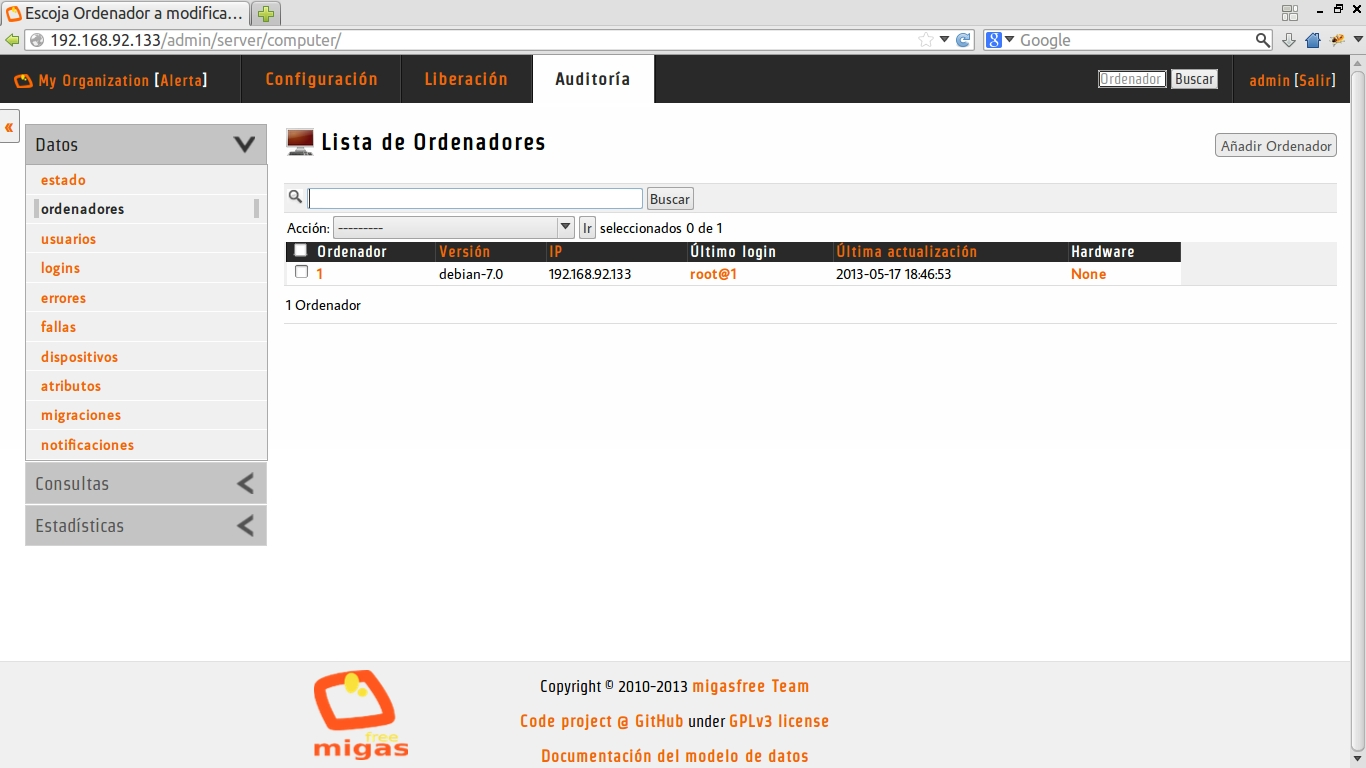
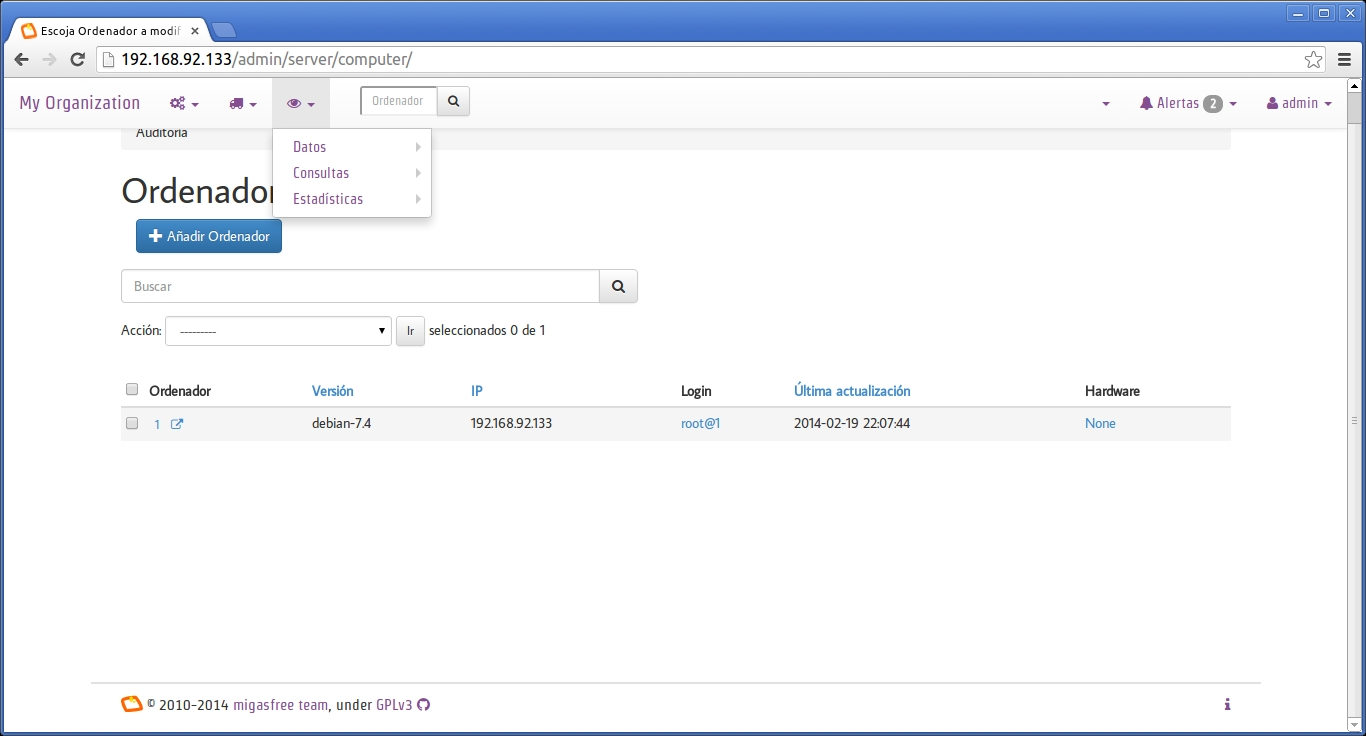
Actualizacion del capitulo 5 a grape edition

diff --git a/chapter05.rst b/chapter05.rst
@@ -150,24 +150,25 @@ ido bien verás la figura 5.1.
 
 
 Haz login con el usuario "admin" y password "admin" y verás algo
-parecido a la figura 5.2.
+parecido a la figura 5.2. Observa como arriba a la derecha pone ``alertas 0``.
+Esto nos indica que todo esta bien.
 
 .. only:: not latex
 
    .. figure:: graphics/chapter05/status.png
       :scale: 40
-      :alt: Estado del servidor.
+      :alt: Estado del servidor con 0 alertas.
 
-      figura 5.2. Estado del servidor.
+      figura 5.2. Estado del servidor con 0 alertas.
 
 
 .. only:: latex
 
    .. figure:: graphics/chapter05/status.png
       :scale: 80
-      :alt: Estado del servidor.
+      :alt: Estado del servidor con 0 alertas.
 
-      Estado del servidor.
+      Estado del servidor con 0 alertas.
 
 
 Instalando el cliente
@@ -213,7 +214,7 @@ te devolverá una salida parecida a esta:
     Versión de migasfree client: 3.1
 
     Opciones de ejecución:
-        Versión: debian-7.0
+        Versión: debian-7.4
         Servidor: 192.168.92.133
         Proxy: None
         Certificado SSL: None
@@ -235,7 +236,7 @@ te devolverá una salida parecida a esta:
     ***************************** Correcto
 
     ************************** Evaluando atributos... **************************
-    VER: debian-7.0
+    VER: debian-7.4
 
     ALL: ALL SYSTEMS
 
@@ -303,13 +304,13 @@ Comprobando el estado del servidor
 Comprueba los datos que se han recogido accediendo al servidor con tu
 navegador web.
 
-* En ``Estado`` tendrás 2 ``Notificaciones`` (figura 5.3):
+* Fíjate ahora que en las ``Alertas`` tendrás 2 ``Notificaciones`` (figura 5.3):
 
     * La primera te notifica que el ordenador ``1`` ha dado de alta la
       plataforma ``Linux``
 
     * La segunda notificación te dice que el ordenador ``1`` ha añadido
-      la version ``debian-7.0``
+      la version ``debian-7.x``
 
     .. only:: not latex
 
@@ -329,9 +330,8 @@ navegador web.
 
 
 
-
-
-* Accede a ``Auditoría - Datos - Ordenadores`` (figura 5.4) y mira:
+* Accede a ``Auditoría - Datos - Ordenadores`` pulsando en el símbolo del ojo y
+  observa: (figura 5.4)
 
     * Los datos del ordenador ``1`` (pulsando en el número 1)
 
@@ -344,17 +344,17 @@ navegador web.
 
        .. figure:: graphics/chapter05/computers.png
           :scale: 40
-          :alt: Equipos..
+          :alt: Ordenadores
 
-          figura 5.4. Equipos.
+          figura 5.4. Ordenadores.
 
     .. only:: latex
 
        .. figure:: graphics/chapter05/computers.png
           :scale: 80
-          :alt: Equipos.
+          :alt: Ordenadores.
 
-          Equipos..
+          Ordenadores.
 
 
 ¡Enhorabuena! Has instalado un servidor migasfree y has registrado en él
